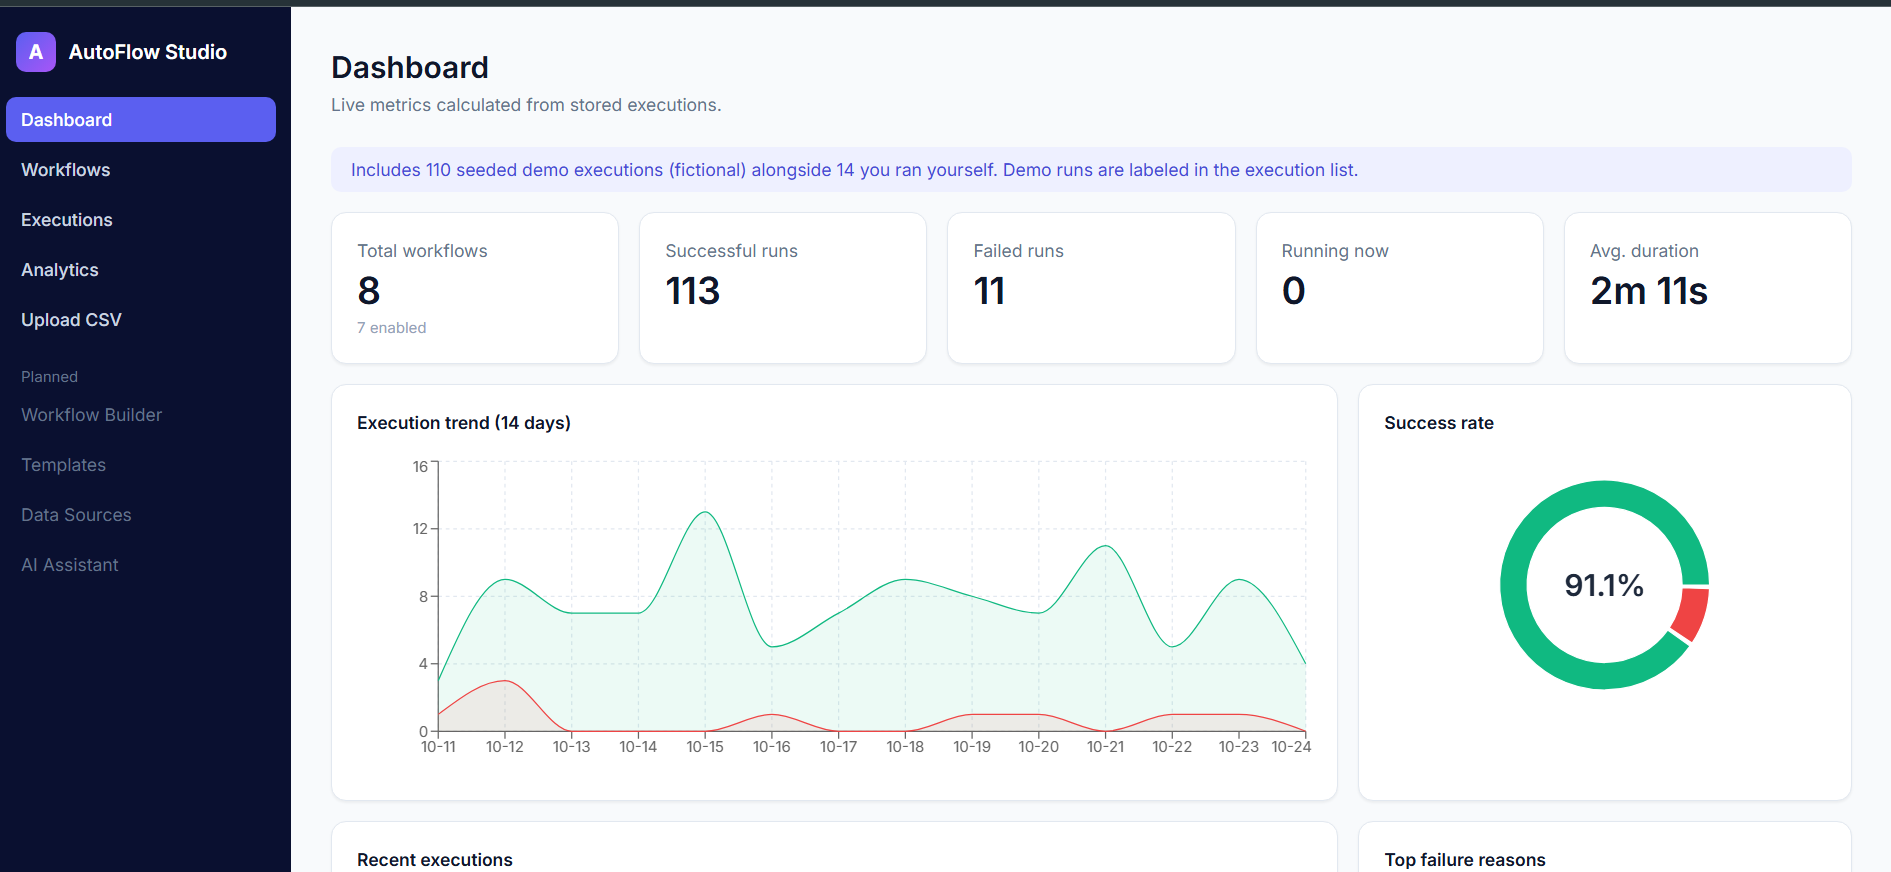
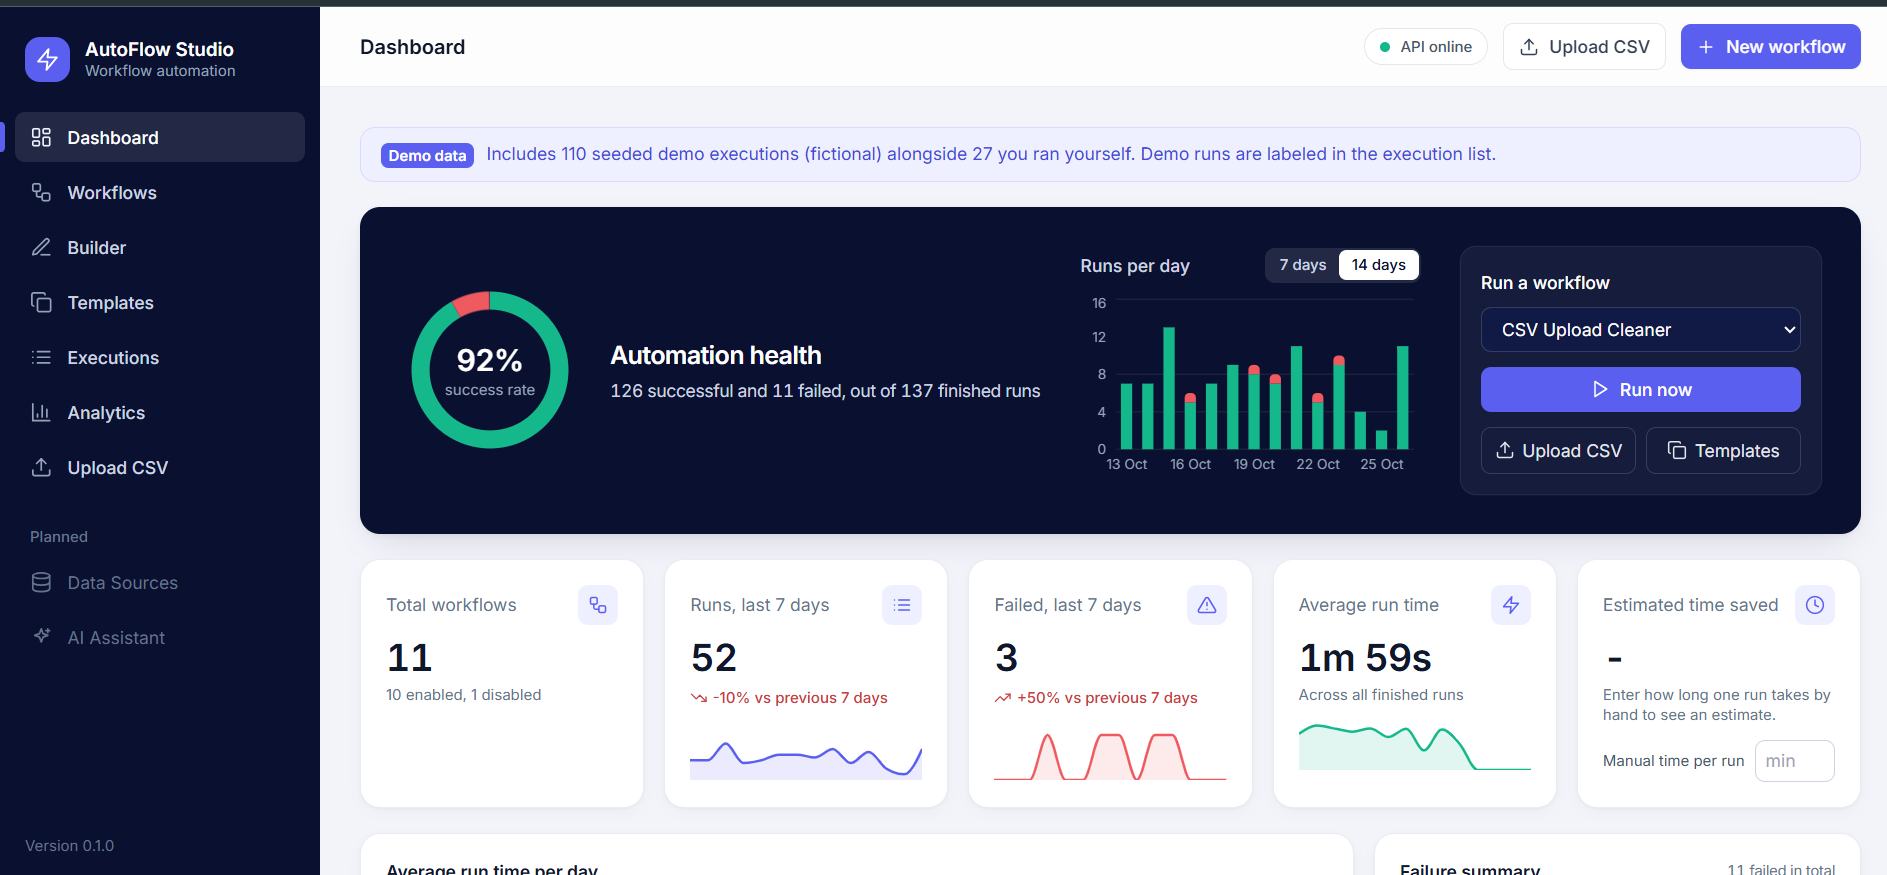
Update README with new dashboard screenshots
Claude-Session: https://claude.ai/code/session_01BG6qF59rEKb3JDeeSwUnTh

diff --git a/README.md b/README.md
@@ -82,9 +82,13 @@ frontend/src/
 
 ## Screenshots
 
-**Dashboard.** Numbers and charts are calculated from stored executions.
+**Dashboard.** Automation health, runs per day, week-over-week stat cards and quick actions. Every number is calculated from stored executions.
 
 ![Dashboard](docs/screenshots/dashboard.png)
+
+**Dashboard, lower half.** Workflow status with success bars, a failure summary, and recent activity.
+
+![Dashboard activity](docs/screenshots/dashboard-activity.png)
 
 **Workflow library.** Run, edit, enable or disable workflows.
 
